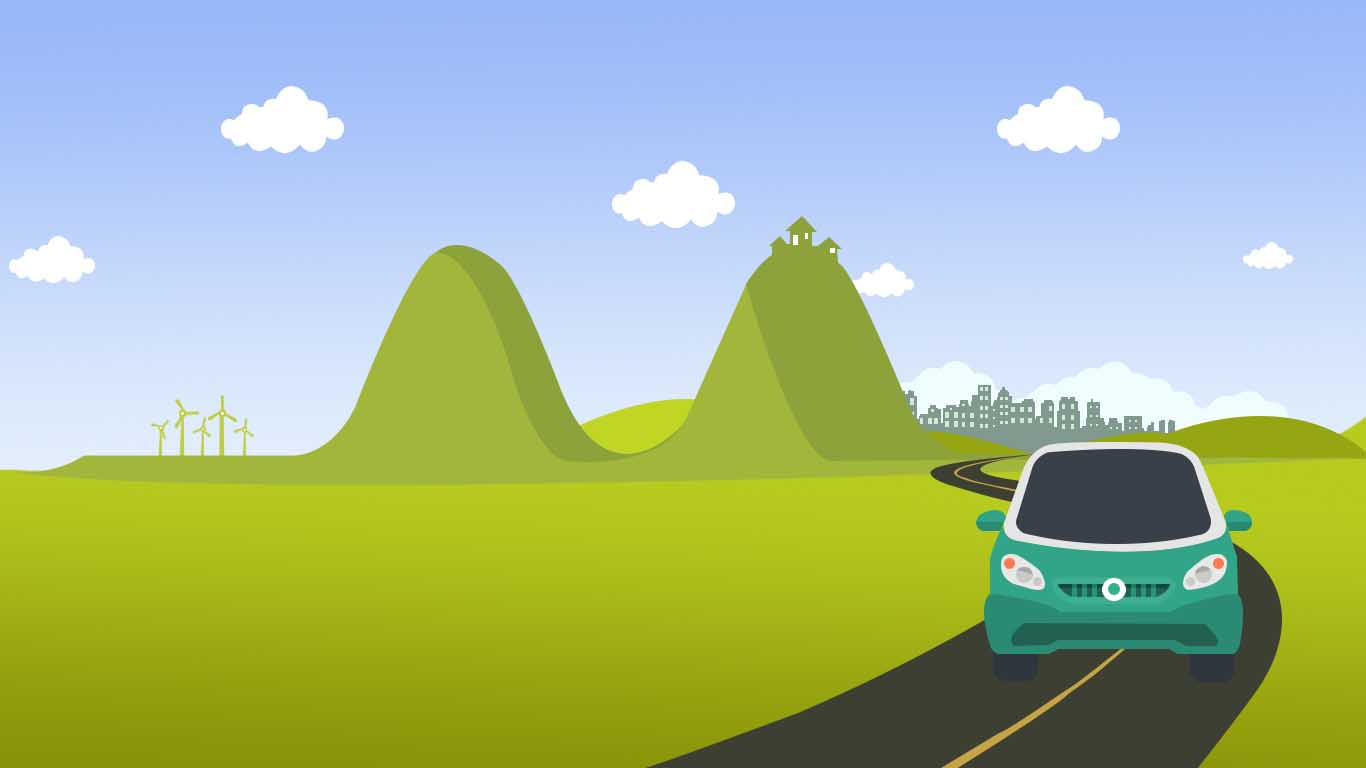
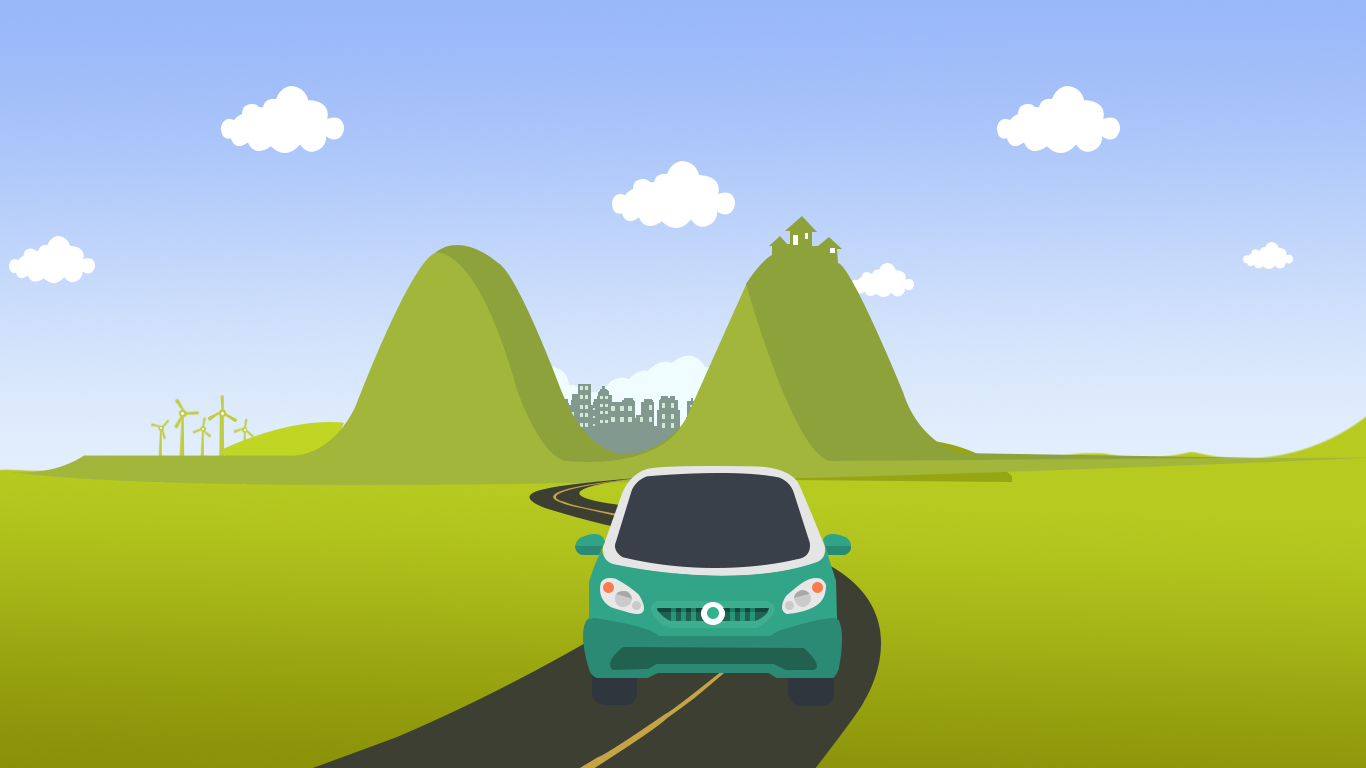
home page changes

diff --git a/public/assets/css/style.css b/public/assets/css/style.css
@@ -93,7 +93,7 @@ header {
 }
 
 .jumbotron {
-	background: url(/assets/img/bg.jpg) no-repeat;
+	background: url(/assets/img/bg.png) no-repeat;
 	background-size: cover;
 	height: 57em;
 	margin-bottom: 0;
@@ -128,13 +128,13 @@ header {
 }
 
 .about {
-	color: #454545;
-	background-color: #ecf0f1;
+	color: #fff;
+	background-color: #f39c12;
 }
 
 .contact {
-	color: #fff;
-	background-color: #f39c12;
+	color: #454545;
+	background-color: #ecf0f1;
 }
 
 .about {

diff --git a/app/views/client/home.blade.php b/app/views/client/home.blade.php
@@ -40,8 +40,8 @@
 		<div class="jumbotron">
 			<div class="container">
 				<div class="tagline">
-					<h1>To travel is to take a journey</h1> <br>
-					<h1>into yourself</h1>
+					<h1>Rent a Car at U-Drive Bohol</h1> <br>
+					<h1>u-drivebohol.com</h1>
 				</div>
 				
 				<div class="col-sm-5 col-sm-offset-7 clearfix booking">
